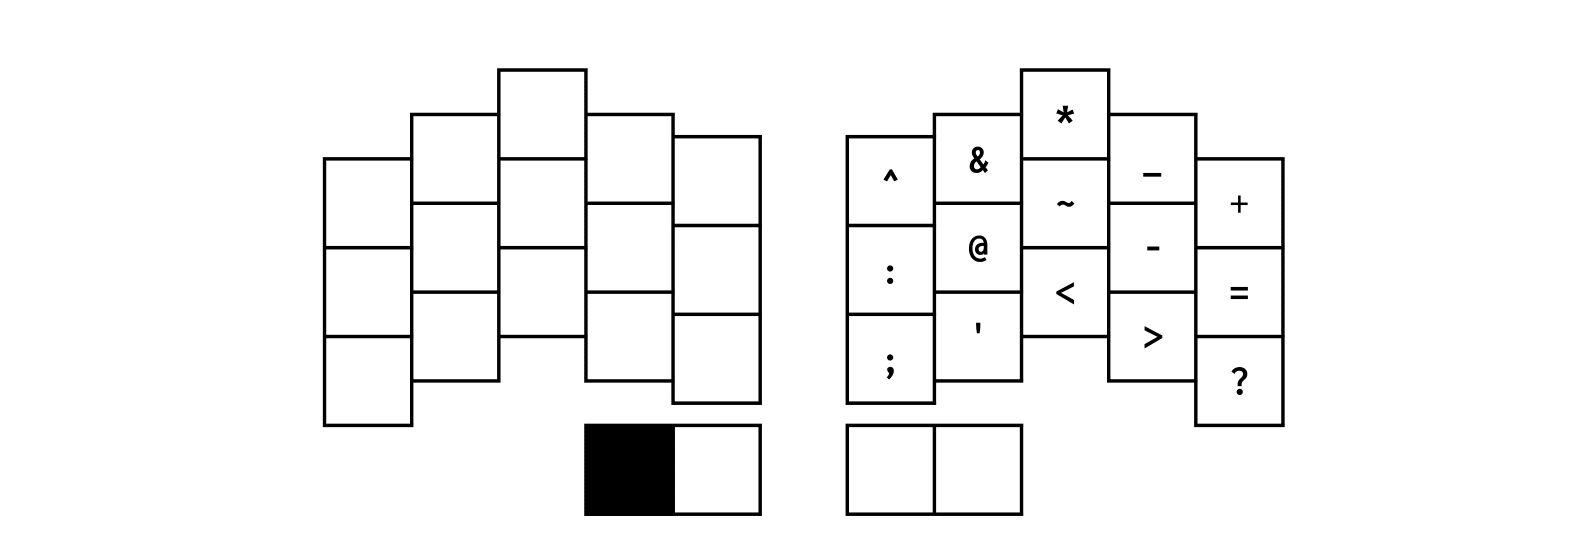
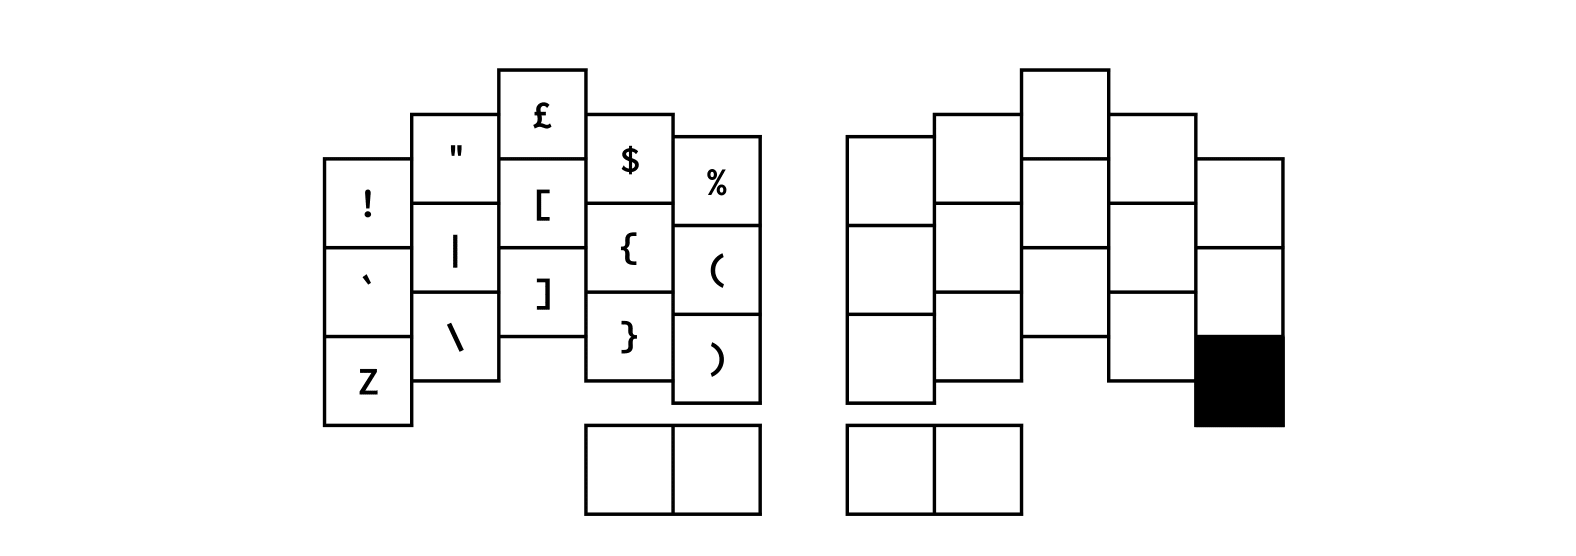
Update documentation

diff --git a/readme.md b/readme.md
@@ -3,8 +3,8 @@
 ## Introduction
 
 This is a QMK layout designed for the Ferris Sweep based on Colemak-DH with UK
-ISO symbols. The layout is designed so that layer keys and modifiers will only
-affect the opposite side of the keyboard.
+ISO symbols. The layout is designed so that shift, other modifiers and layer
+keys will only affect the opposite side of the keyboard.
 
 ## Usage
 
@@ -22,21 +22,25 @@ qmk compile -kb ferris/sweep -e CONVERT_TO=rp2040_ce
 
 ![Base Layer](assets/base.png)
 
-The base layer implements the Colemak-DH layout. When tapped, the thumb keys
-produce, from left to right: a oneshot `Left Shift`, `Space`, `Enter`, and a
-oneshot `Right Shift`. Double tapping either of the shift keys enable the QMK
-Caps Word feature for a short while. Double tapping either shift key again will
-toggle Caps Word off.
+The base layer is arranged in a Colemak-DH layout, with a small number of
+changes.
 
-The thumb keys give access to most of the layers when held down, from left to
-right: the right symbol layer, the navigation layer, the number layer, and the
-left symbol layer.
+- The top right pinky key produces `Backspace`.
+- The bottom left and right pinky keys give oneshot access to the right and
+  left symbol layers.
+- The `Z` and `/` keys have been displaced into symbol layers.
 
-In addition, function keys can be accessed on the right side of the keyboard by
-holding down the `F` key.
+In addition:
 
-Controls for brightness, sound and media can be accessed on the left side of the
-keyboard by holding down the `U` key.
+- The thumb keys produce, from left to right: `Left Shift`, `Space`, `Enter`,
+  and `Right Shift`.
+- When held, the `Space` and `Enter` thumb keys give access to the navigation
+  and number layers.
+- Double-tapping either of the shift keys toggles the QMK Caps Word feature.
+- Holding `Left Shift` and tapping `Backspace` produces `Delete`.
+- Holding the `F` key gives access to function keys in the `Function` layer.
+- Holding the `U` key gives access to controls for brightness, sound and media
+  in the `Controls` layer.
 
 ## Symbol Layers
 
@@ -48,11 +52,17 @@ symbol layers, close to their UK ISO finger positions.
 The pairs of unshifted and shifted symbols that would normally appear clustered
 on the right side of a UK ISO keyboard are on the right symbol layer.
 
+Note that the `/` key is available on the bottom right pinky key in the right
+symbol layer.
+
 ![Left Symbol Layer](assets/lsym.png)
 
 The left symbol layer gathers the brackets, braces and parentheses. The
 backslash and pipe symbols appear on the left, echoing where that key appears on
 a UK ISO keyboard.
+
+Note that the `Z` key is available on the bottom left pinky key in the left
+symbol layer.
 
 ## Navigation Layer
 
@@ -62,7 +72,10 @@ keys as well as a number of shortcut keys for desktop actions.
 
 ![Navigation Layer](assets/nav.png)
 
-The `Esc` and `Del` keys are on the right thumb keys.
+The `Esc` and `Esc + Colon` keys are on the right thumb keys. Left and
+right mouse buttons are available on the left side, for use with a
+centralised trackball or trackpad.
+
 
 ## Number Layer
 
